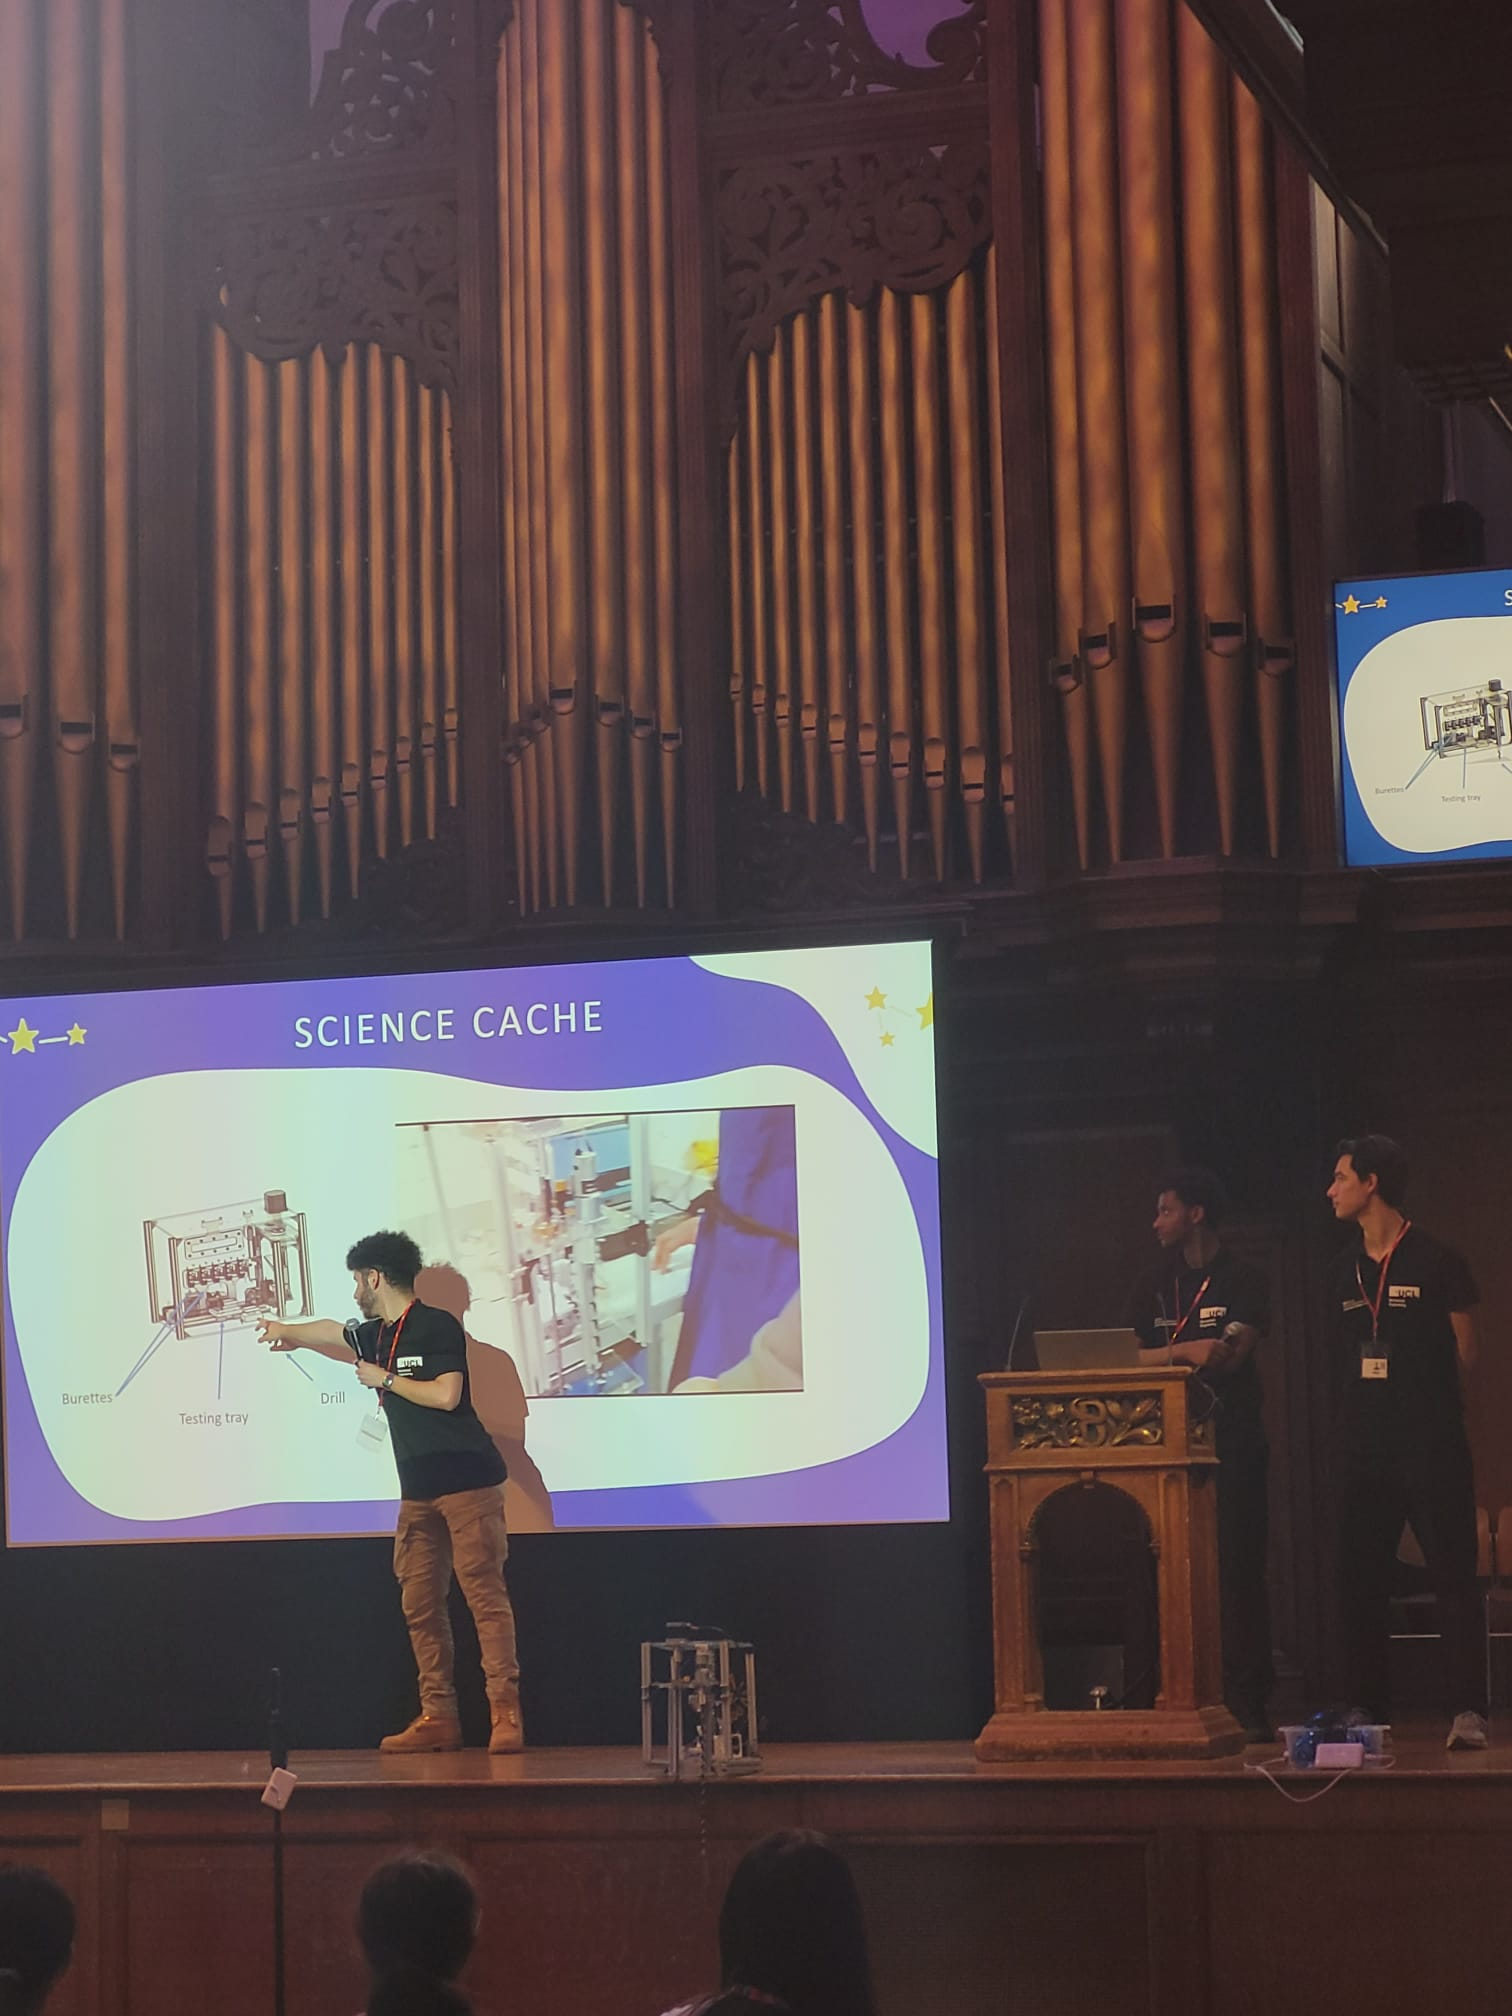
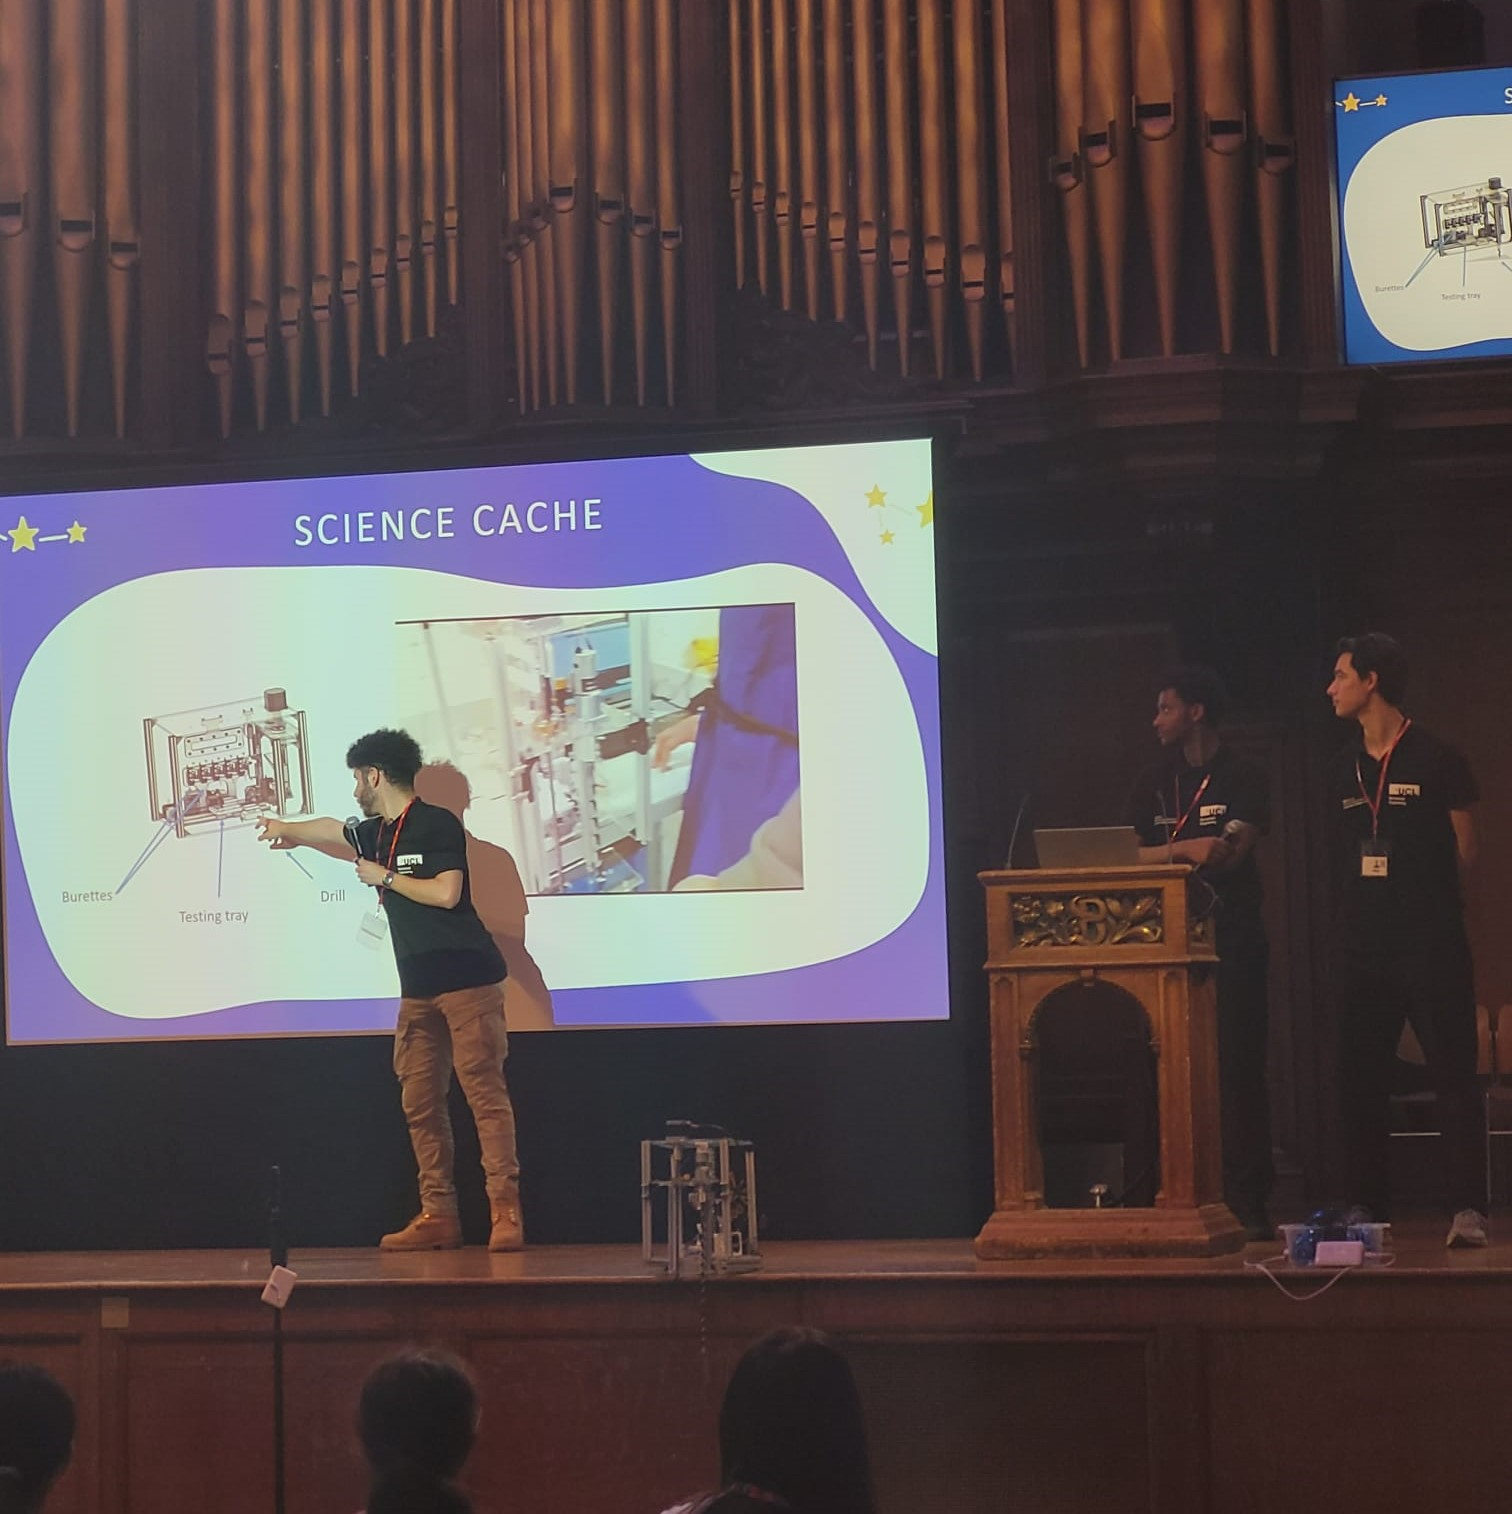
UCL Rover Section Changes

diff --git a/_pages/ucl_rover.md b/_pages/ucl_rover.md
@@ -64,7 +64,7 @@ During the summer of 2023, alongside three other engineers from the team, we wer
 <div style="display: flex; gap: 20px; justify-content: center; align-items: flex-start; flex-wrap: wrap;">
 
   <img src="{{ '/assets/images/London_Youth_Robotics_Conference.jpg' | relative_url }}"
-       style="height: 300px; width: auto; box-shadow: 0 4px 8px rgba(0,0,0,0.2);">
+       style="height: 200px; width: auto; box-shadow: 0 4px 8px rgba(0,0,0,0.2);">
 
   <img src="{{ '/assets/images/London_Youth_Robotics_Conference_Image.jpg' | relative_url }}"
        style="height: 300px; width: auto; box-shadow: 0 4px 8px rgba(0,0,0,0.2);">
@@ -72,32 +72,3 @@ During the summer of 2023, alongside three other engineers from the team, we wer
 </div>
 
 
-
-
-
-
-<p style="margin-top: 30px; font-size: 14px;">
-As electronics lead, I was responsible for selecting components for the vehicle’s drive, target detection, and control systems. A NEMA 17 stepper motor was chosen for precise positioning and repeatability, essential for consistently reaching the bullseye. A limit switch ensured the motor reversed when the vehicle hit a wall, while an infrared sensor detected the outer black boundary of the target, providing a more reliable response than the originally planned color sensor. The DRV8825 motor driver enabled 1/4 microstepping for increased accuracy, and a touch sensor required a 3-second hold to start the vehicle. An Arduino Nano served as the microcontroller due to its compact size. Two 9V batteries powered the stepper motor, and one 9V battery powered the Arduino. A Bel resettable fuse was included to meet competition regulations and allow safe prototyping, while a capacitor smoothed voltage fluctuations for the motor. The national design followed a similar approach but omitted the seven-segment displays used for team name and battery monitoring, resulting in a more compact and streamlined design. The electrical schematics for both versions are shown below: the regional design is on the left, and the national design is on the right.
-</p>
-
-<div style="display: flex; gap: 20px; justify-content: center; align-items: flex-start; flex-wrap: wrap;">
-  <img src="{{ '/assets/images/Regionals_PCB_Schematic.png' | relative_url }}"
-       alt="Regionals PCB Schematic"
-       style="height: 200px; width: auto; box-shadow: 0 4px 8px rgba(0,0,0,0.2);">
-
-  <img src="{{ '/assets/images/Nationals_PCB_Schematic.png' | relative_url }}"
-       alt="Nationals PCB Schematic"
-       style="height: 200px; width: auto; box-shadow: 0 4px 8px rgba(0,0,0,0.2);">
-</div>
-
-
-
-<p style="margin-top: 30px; font-size: 14px;">
-Our team’s journey was featured on the ANSYS Global Blog. The article can be found here:: https://www.ansys.com/en-gb/blog/ucl-c-2024-imeche-design-challenge-ansys-simulation-challenge
-</p>
-
-<div style="display: flex; gap: 20px; justify-content: center; align-items: flex-start; flex-wrap: wrap;">
-  <img src="{{ '/assets/images/IMECHE_ANSYS_Blog.png' | relative_url }}"
-       alt="Regionals PCB Schematic"
-       style="height: 300px; width: auto; box-shadow: 0 4px 8px rgba(0,0,0,0.2);">
-</div>
